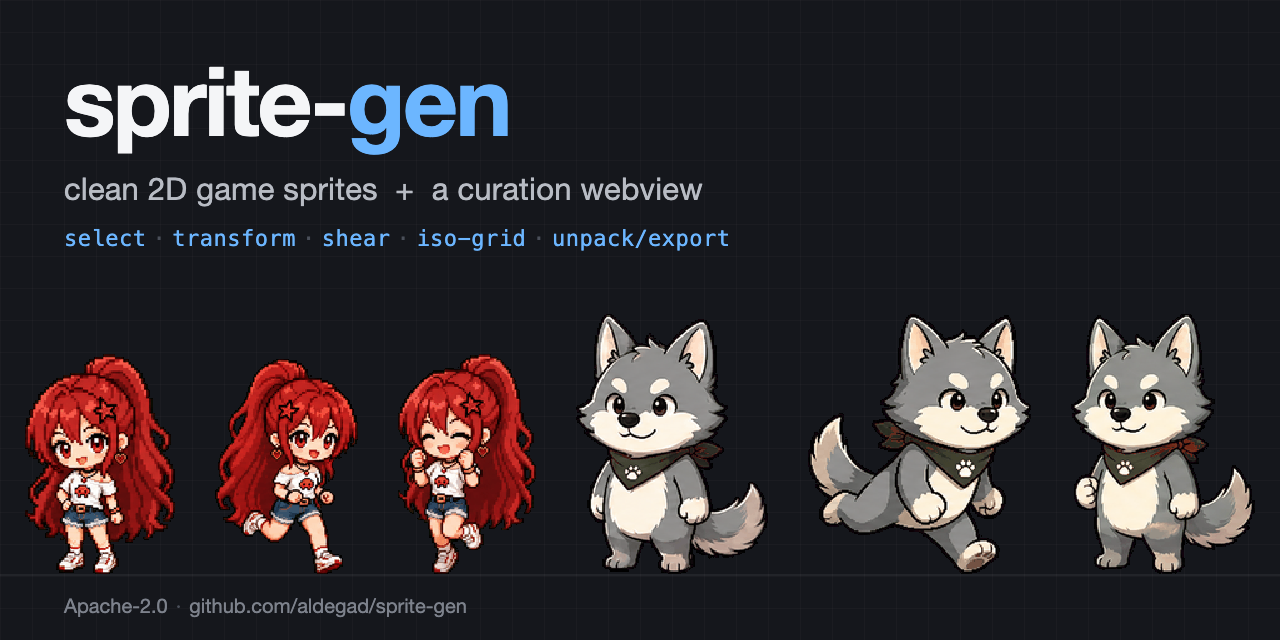
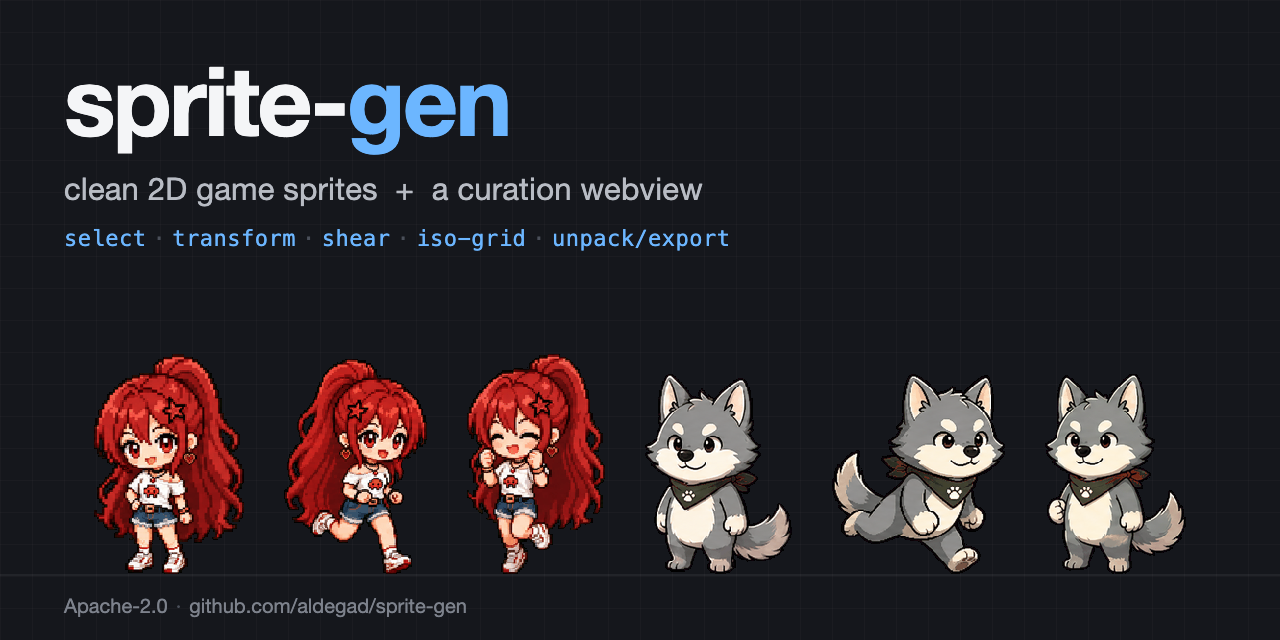
docs: balance howl size against claudecy on social card

Changed region(s): [[0.0, 0.5, 1.0, 0.9062]]

diff --git a/docs/social-preview-card.html b/docs/social-preview-card.html
@@ -79,9 +79,9 @@
     <img src="claudecy-idle-crop.png" style="height:220px">
     <img src="claudecy-running-crop.png" style="height:215px">
     <img src="claudecy-success-crop.png" style="height:220px">
-    <img src="howl-idle-crop.png" style="height:260px">
-    <img src="howl-running-crop.png" style="height:260px">
-    <img src="howl-success-crop.png" style="height:260px">
+    <img src="howl-idle-crop.png" style="height:200px">
+    <img src="howl-running-crop.png" style="height:200px">
+    <img src="howl-success-crop.png" style="height:200px">
   </div>
   <div class="footer">Apache-2.0<span class="dot">·</span>github.com/aldegad/sprite-gen</div>
 </body>